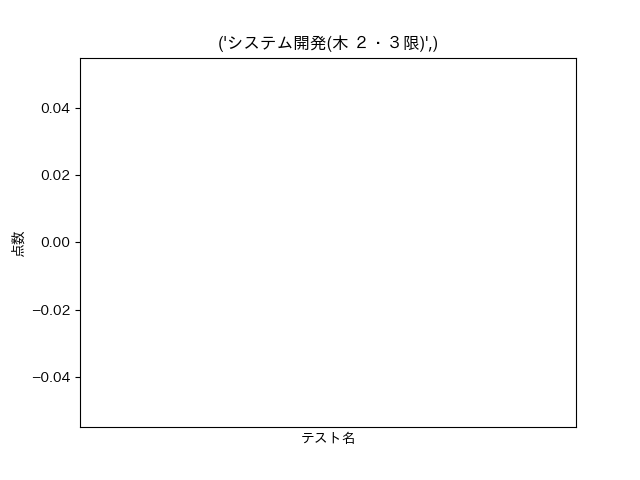
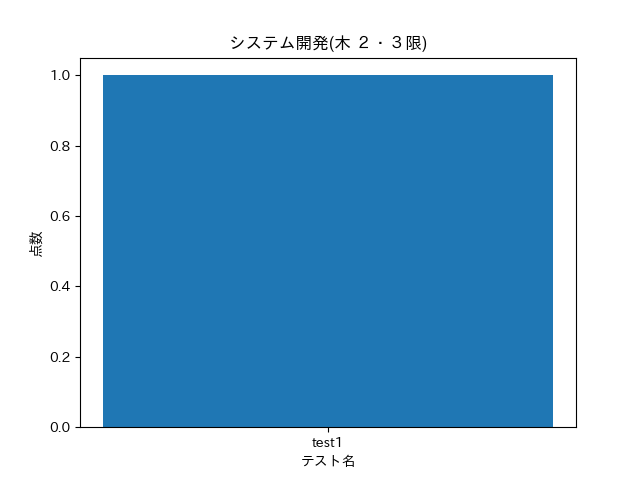
main

diff --git a/templates/student_detail.html b/templates/student_detail.html
@@ -34,8 +34,8 @@
 
     <div class="dropdown">
     <button class="btn btn-secondary dropdown-toggle" type="button" id="dropdownMenuButton1" data-bs-toggle="dropdown" aria-expanded="false">
-      {% if params.test_name_value%}
-      {{params.test_name_value}}を表示中
+      {% if params.subject%}
+      {{params.subject }}を表示中
       {% else %}
       授業を選択
       {% endif %}

diff --git a/app.py b/app.py
@@ -787,26 +787,26 @@ def histogram(student_id, subject):
         score = []
         with connection:
             with connection.cursor() as cursor:
-                cursor.execute("select subject_id from student where student_id = %s",(student_id,))
-                subject_ids = cursor.fetchall()
-                for subject_id in subject_ids:
-                    cursor.execute("select subject from subjects where id = %s",(subject_id[0],))
-                    subject_name = cursor.fetchall()
-                    subject_name = subject_name[0]
-                    cursor.execute("select test_name, test_score from test where test_name = %s",(subject_name,))
+                
+                    cursor.execute("select test_name, test_score from test where subject = %s and student_id = %s",(subject,student_id,))
                     tests = cursor.fetchall()
                     for test in tests:
                         test_name = test[0]
                         test_score = test[1]
                         name.append(test_name)
                         name_label.append(test_name)
-                        score.append(test_score)
+                        score.append(int(test_score))
                     
-                plt.bar(name, score, tick_label = name_label, align="center")
-                plt.title(f"{subject_name}")
-                plt.xlabel("テスト名")
-                plt.ylabel("点数")
-
+                    print(name_label)
+                    print(score)
+                    height = list(range(0,101,10))
+                    height = ["50"]
+                    y = range(1, len(score)+1)
+                    plt.bar(height ,y, tick_label=name_label, align="center")
+                    plt.title(f"{subject}")
+                    plt.xlabel("テスト名")
+                    plt.ylabel("点数")
+                    plt.show()
 
         # x = []  
         # for student in students:
@@ -830,29 +830,29 @@ def histogram(student_id, subject):
         # plt.tick_params(labelsize = 10)
 
 
-                path = f"static/graph_images/{student_id}_{test_key}.png"
-                plt.savefig(path)
-                # for student in students:
-                #     if student["id"] == student_id:
-                cursor.execute("select student_id, name, department_id, major_id, age, class_id, gender from student where student_id = %s",(student_id,))
-                student_details = cursor.fetchall()
-                for detail in student_details:
-                    student_id = detail[0]
-                    student_name = detail[1]
-                    department_id = detail[2]
-                    major_id = detail[3]
-                    age = detail[4]
-                    class_id = detail[5]
-                    gender = detail[6]
-                    cursor.execute("select department from departments where id = %s",(department_id,))
-                    department_name = cursor.fetchall()
-                    department_name = department_name[0][0]
-                    cursor.execute("select major from majors where id = %s",(major_id,))
-                    major_name = cursor.fetchall()
-                    major_name = major_name[0][0]
-                    cursor.execute("select class from classes where id = %s",(class_id,))
-                    class_name = cursor.fetchall()
-                    class_name = class_name[0][0]
+                    path = f"static/graph_images/{student_id}_{subject}.png"
+                    plt.savefig(path)
+                    # for student in students:
+                    #     if student["id"] == student_id:
+                    cursor.execute("select student_id, name, department_id, major_id, age, class_id, gender from student where student_id = %s",(student_id,))
+                    student_details = cursor.fetchall()
+                    for detail in student_details:
+                        student_id = detail[0]
+                        student_name = detail[1]
+                        department_id = detail[2]
+                        major_id = detail[3]
+                        age = detail[4]
+                        class_id = detail[5]
+                        gender = detail[6]
+                        cursor.execute("select department from departments where id = %s",(department_id,))
+                        department_name = cursor.fetchall()
+                        department_name = department_name[0][0]
+                        cursor.execute("select major from majors where id = %s",(major_id,))
+                        major_name = cursor.fetchall()
+                        major_name = major_name[0][0]
+                        cursor.execute("select class from classes where id = %s",(class_id,))
+                        class_name = cursor.fetchall()
+                        class_name = class_name[0][0]
         # パラメータの  
         params = {
             "student_id": student_id,
@@ -862,18 +862,13 @@ def histogram(student_id, subject):
             "age":age,
             "class_name":class_name,
             "gender":gender,
+            "subject":subject
             #  "student": student,
             #  "image": path,
             #  "test_names": test_names
         }         
         params["image"] = path
-        print(name_label,"name_label")
         params["test_names"] = name_label
-        # params = {
-        #     "image": path,
-        #     # "test_names": test_name,
-        #     # "test_name_value": test_names[test_key] 
-        #             }
         return render_template("student_detail.html", params=params)
         # return redirect(url_for("login"))
 
